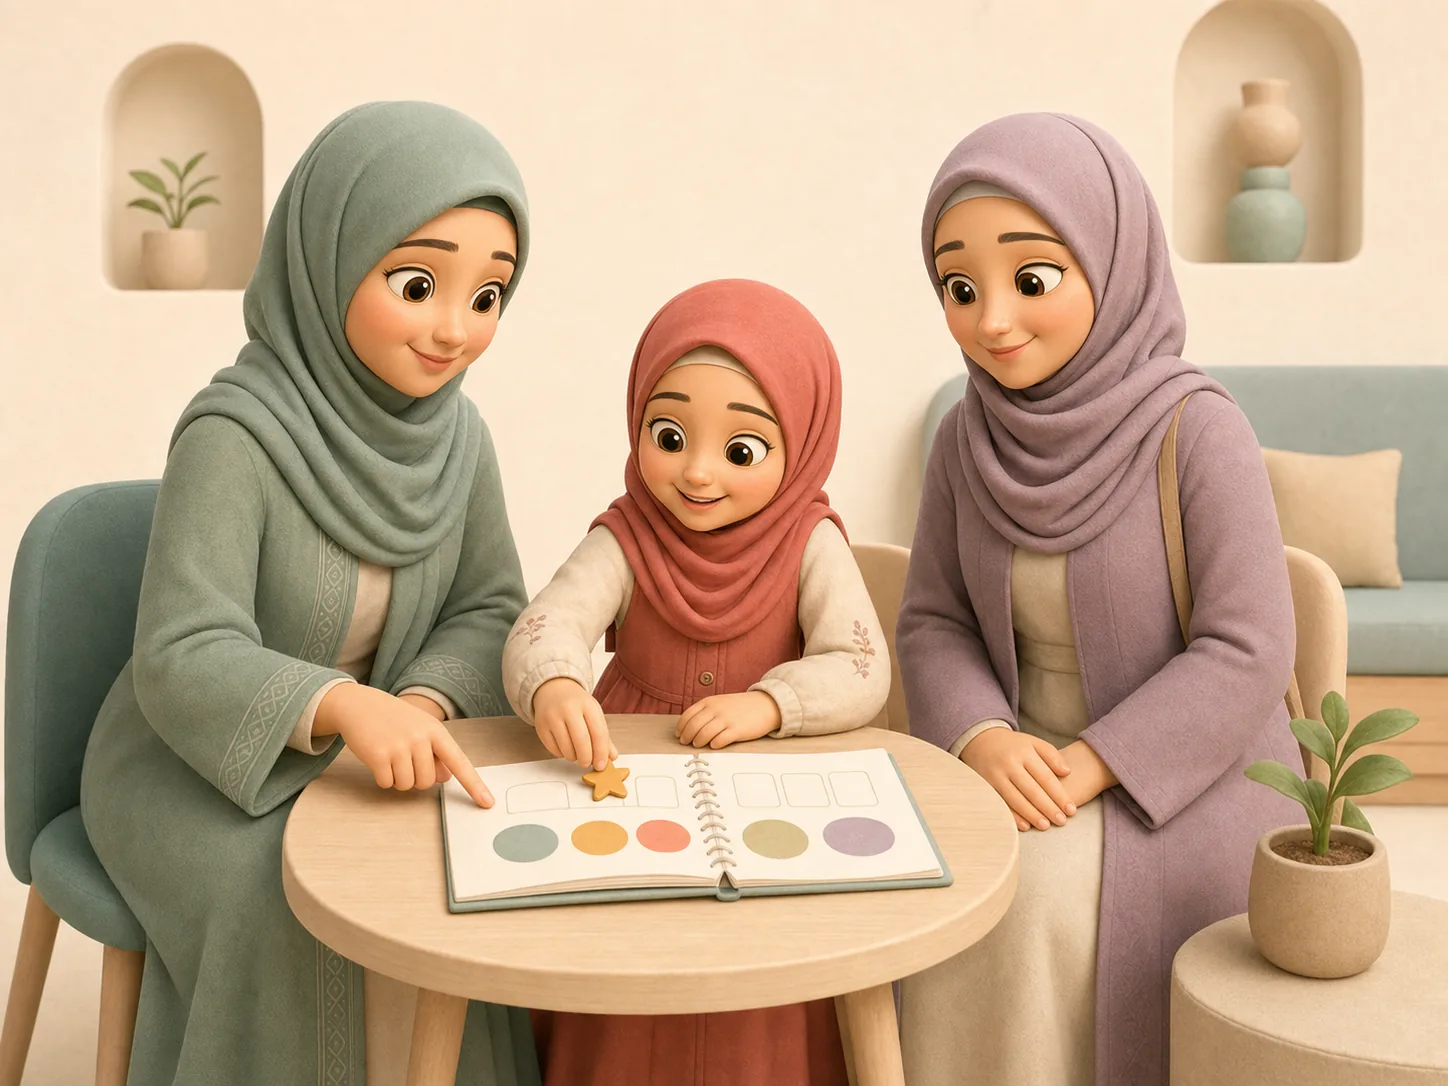
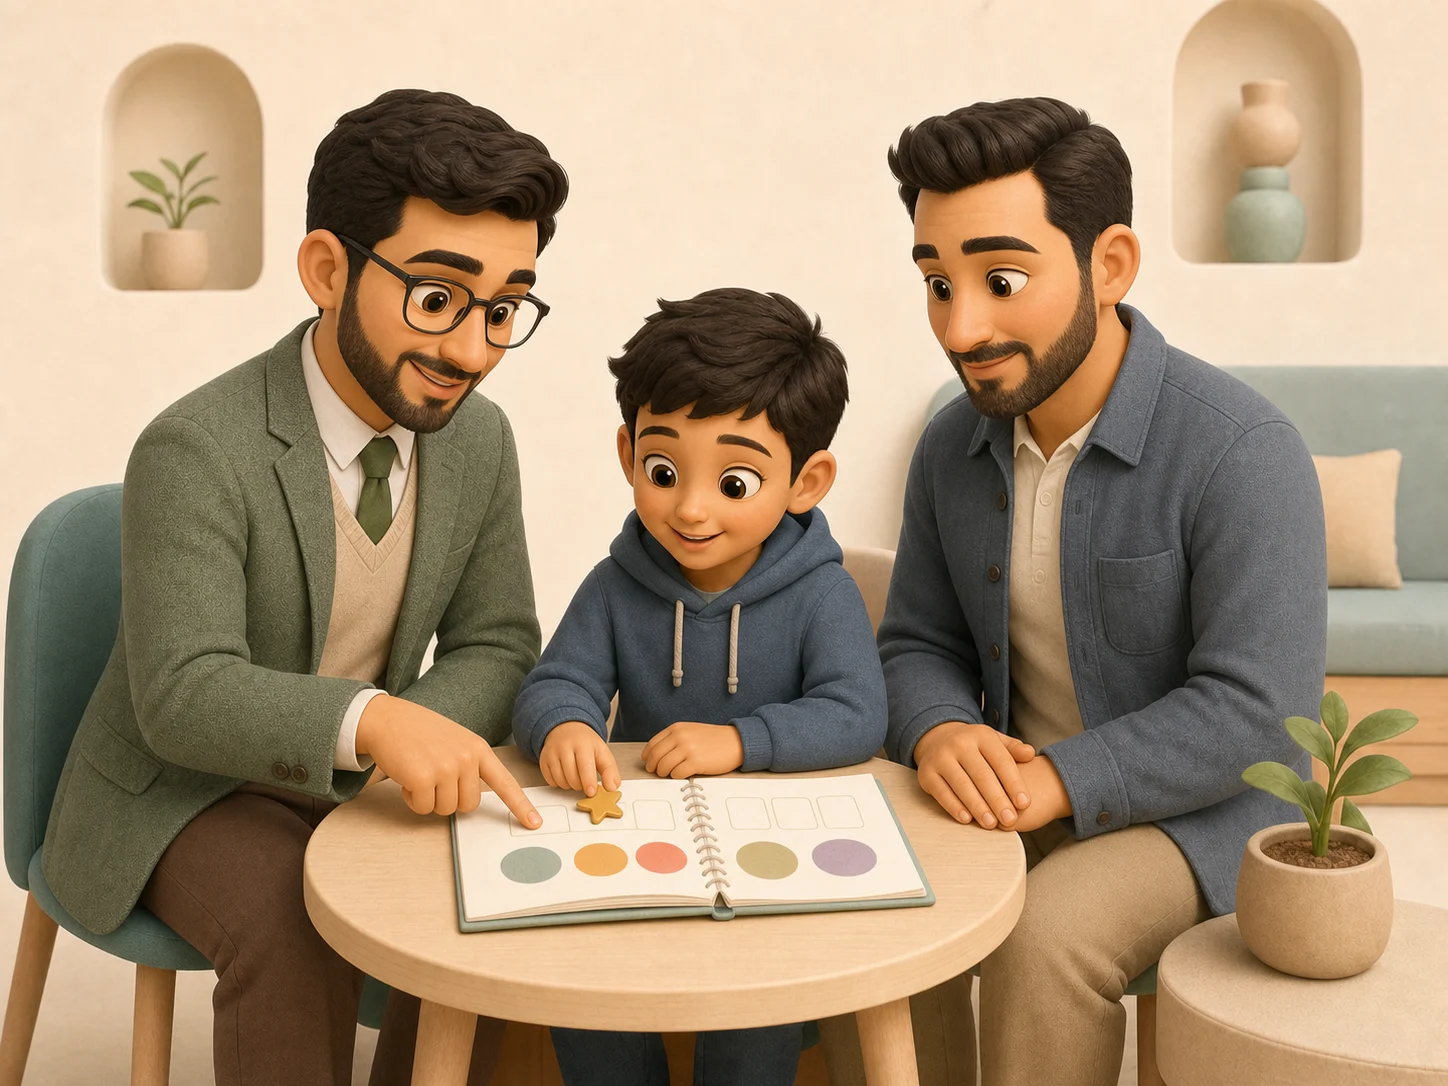
Eğitim görsellerindeki karakterleri güncelle

diff --git a/_src/dist/index.html b/_src/dist/index.html
@@ -248,7 +248,7 @@ target="_blank" rel="noopener"           data-track="click_apply_online">
       <article class="route-model-card route-model-card-face">
         <picture class="route-model-art">
           <source srcset="/images/degerler-rotasi/v1/card-face-to-face-v1.webp" type="image/webp">
-          <img src="/images/degerler-rotasi/v1/card-face-to-face-v1.png" width="1536" height="1152" loading="lazy" alt="Başörtülü kadın öğretmenle sınıfta değerler çalışması yapan öğrenciler">
+          <img src="/images/degerler-rotasi/v1/card-face-to-face-v1.png" width="1536" height="1152" loading="lazy" alt="Erkek öğretmenle sınıfta değerler çalışması yapan erkek öğrenciler">
         </picture>
         <div class="route-model-body">
           <span class="route-model-kicker">Birlikte ve yaşayarak</span>
@@ -261,7 +261,7 @@ target="_blank" rel="noopener"           data-track="click_apply_online">
       <article class="route-model-card route-model-card-family">
         <picture class="route-model-art">
           <source srcset="/images/degerler-rotasi/v1/card-family-followup-v1.webp" type="image/webp">
-          <img src="/images/degerler-rotasi/v1/card-family-followup-v1.png" width="1536" height="1152" loading="lazy" alt="Başörtülü öğretmen ve annenin öğrenci gelişimini birlikte değerlendirmesi">
+          <img src="/images/degerler-rotasi/v1/card-family-followup-v1.png" width="1536" height="1152" loading="lazy" alt="Erkek öğretmen ve babanın erkek öğrencinin gelişimini birlikte değerlendirmesi">
         </picture>
         <div class="route-model-body">
           <span class="route-model-kicker">Şeffaf ve sürdürülebilir</span>
@@ -579,7 +579,7 @@ target="_blank" rel="noopener"           data-track="click_apply_online">
     <div class="app-section">
       <picture class="route-followup-art">
         <source srcset="/images/degerler-rotasi/v1/card-family-followup-v1.webp" type="image/webp">
-        <img src="/images/degerler-rotasi/v1/card-family-followup-v1.png" alt="Başörtülü öğretmen ve annenin öğrenci gelişimini birlikte değerlendirmesi" width="1536" height="1152" loading="lazy">
+        <img src="/images/degerler-rotasi/v1/card-family-followup-v1.png" alt="Erkek öğretmen ve babanın erkek öğrencinin gelişimini birlikte değerlendirmesi" width="1536" height="1152" loading="lazy">
       </picture>
       <div>
         <span class="route-eyebrow">Aynı Hedefte Buluşun</span>

diff --git a/index.html b/index.html
@@ -248,7 +248,7 @@ target="_blank" rel="noopener"           data-track="click_apply_online">
       <article class="route-model-card route-model-card-face">
         <picture class="route-model-art">
           <source srcset="/images/degerler-rotasi/v1/card-face-to-face-v1.webp" type="image/webp">
-          <img src="/images/degerler-rotasi/v1/card-face-to-face-v1.png" width="1536" height="1152" loading="lazy" alt="Başörtülü kadın öğretmenle sınıfta değerler çalışması yapan öğrenciler">
+          <img src="/images/degerler-rotasi/v1/card-face-to-face-v1.png" width="1536" height="1152" loading="lazy" alt="Erkek öğretmenle sınıfta değerler çalışması yapan erkek öğrenciler">
         </picture>
         <div class="route-model-body">
           <span class="route-model-kicker">Birlikte ve yaşayarak</span>
@@ -261,7 +261,7 @@ target="_blank" rel="noopener"           data-track="click_apply_online">
       <article class="route-model-card route-model-card-family">
         <picture class="route-model-art">
           <source srcset="/images/degerler-rotasi/v1/card-family-followup-v1.webp" type="image/webp">
-          <img src="/images/degerler-rotasi/v1/card-family-followup-v1.png" width="1536" height="1152" loading="lazy" alt="Başörtülü öğretmen ve annenin öğrenci gelişimini birlikte değerlendirmesi">
+          <img src="/images/degerler-rotasi/v1/card-family-followup-v1.png" width="1536" height="1152" loading="lazy" alt="Erkek öğretmen ve babanın erkek öğrencinin gelişimini birlikte değerlendirmesi">
         </picture>
         <div class="route-model-body">
           <span class="route-model-kicker">Şeffaf ve sürdürülebilir</span>
@@ -579,7 +579,7 @@ target="_blank" rel="noopener"           data-track="click_apply_online">
     <div class="app-section">
       <picture class="route-followup-art">
         <source srcset="/images/degerler-rotasi/v1/card-family-followup-v1.webp" type="image/webp">
-        <img src="/images/degerler-rotasi/v1/card-family-followup-v1.png" alt="Başörtülü öğretmen ve annenin öğrenci gelişimini birlikte değerlendirmesi" width="1536" height="1152" loading="lazy">
+        <img src="/images/degerler-rotasi/v1/card-family-followup-v1.png" alt="Erkek öğretmen ve babanın erkek öğrencinin gelişimini birlikte değerlendirmesi" width="1536" height="1152" loading="lazy">
       </picture>
       <div>
         <span class="route-eyebrow">Aynı Hedefte Buluşun</span>

diff --git a/_src/templates/pages/index.html b/_src/templates/pages/index.html
@@ -90,7 +90,7 @@
       <article class="route-model-card route-model-card-face">
         <picture class="route-model-art">
           <source srcset="/images/degerler-rotasi/v1/card-face-to-face-v1.webp" type="image/webp">
-          <img src="/images/degerler-rotasi/v1/card-face-to-face-v1.png" width="1536" height="1152" loading="lazy" alt="Başörtülü kadın öğretmenle sınıfta değerler çalışması yapan öğrenciler">
+          <img src="/images/degerler-rotasi/v1/card-face-to-face-v1.png" width="1536" height="1152" loading="lazy" alt="Erkek öğretmenle sınıfta değerler çalışması yapan erkek öğrenciler">
         </picture>
         <div class="route-model-body">
           <span class="route-model-kicker">Birlikte ve yaşayarak</span>
@@ -103,7 +103,7 @@
       <article class="route-model-card route-model-card-family">
         <picture class="route-model-art">
           <source srcset="/images/degerler-rotasi/v1/card-family-followup-v1.webp" type="image/webp">
-          <img src="/images/degerler-rotasi/v1/card-family-followup-v1.png" width="1536" height="1152" loading="lazy" alt="Başörtülü öğretmen ve annenin öğrenci gelişimini birlikte değerlendirmesi">
+          <img src="/images/degerler-rotasi/v1/card-family-followup-v1.png" width="1536" height="1152" loading="lazy" alt="Erkek öğretmen ve babanın erkek öğrencinin gelişimini birlikte değerlendirmesi">
         </picture>
         <div class="route-model-body">
           <span class="route-model-kicker">Şeffaf ve sürdürülebilir</span>
@@ -288,7 +288,7 @@
     <div class="app-section">
       <picture class="route-followup-art">
         <source srcset="/images/degerler-rotasi/v1/card-family-followup-v1.webp" type="image/webp">
-        <img src="/images/degerler-rotasi/v1/card-family-followup-v1.png" alt="Başörtülü öğretmen ve annenin öğrenci gelişimini birlikte değerlendirmesi" width="1536" height="1152" loading="lazy">
+        <img src="/images/degerler-rotasi/v1/card-family-followup-v1.png" alt="Erkek öğretmen ve babanın erkek öğrencinin gelişimini birlikte değerlendirmesi" width="1536" height="1152" loading="lazy">
       </picture>
       <div>
         <span class="route-eyebrow">Aynı Hedefte Buluşun</span>
